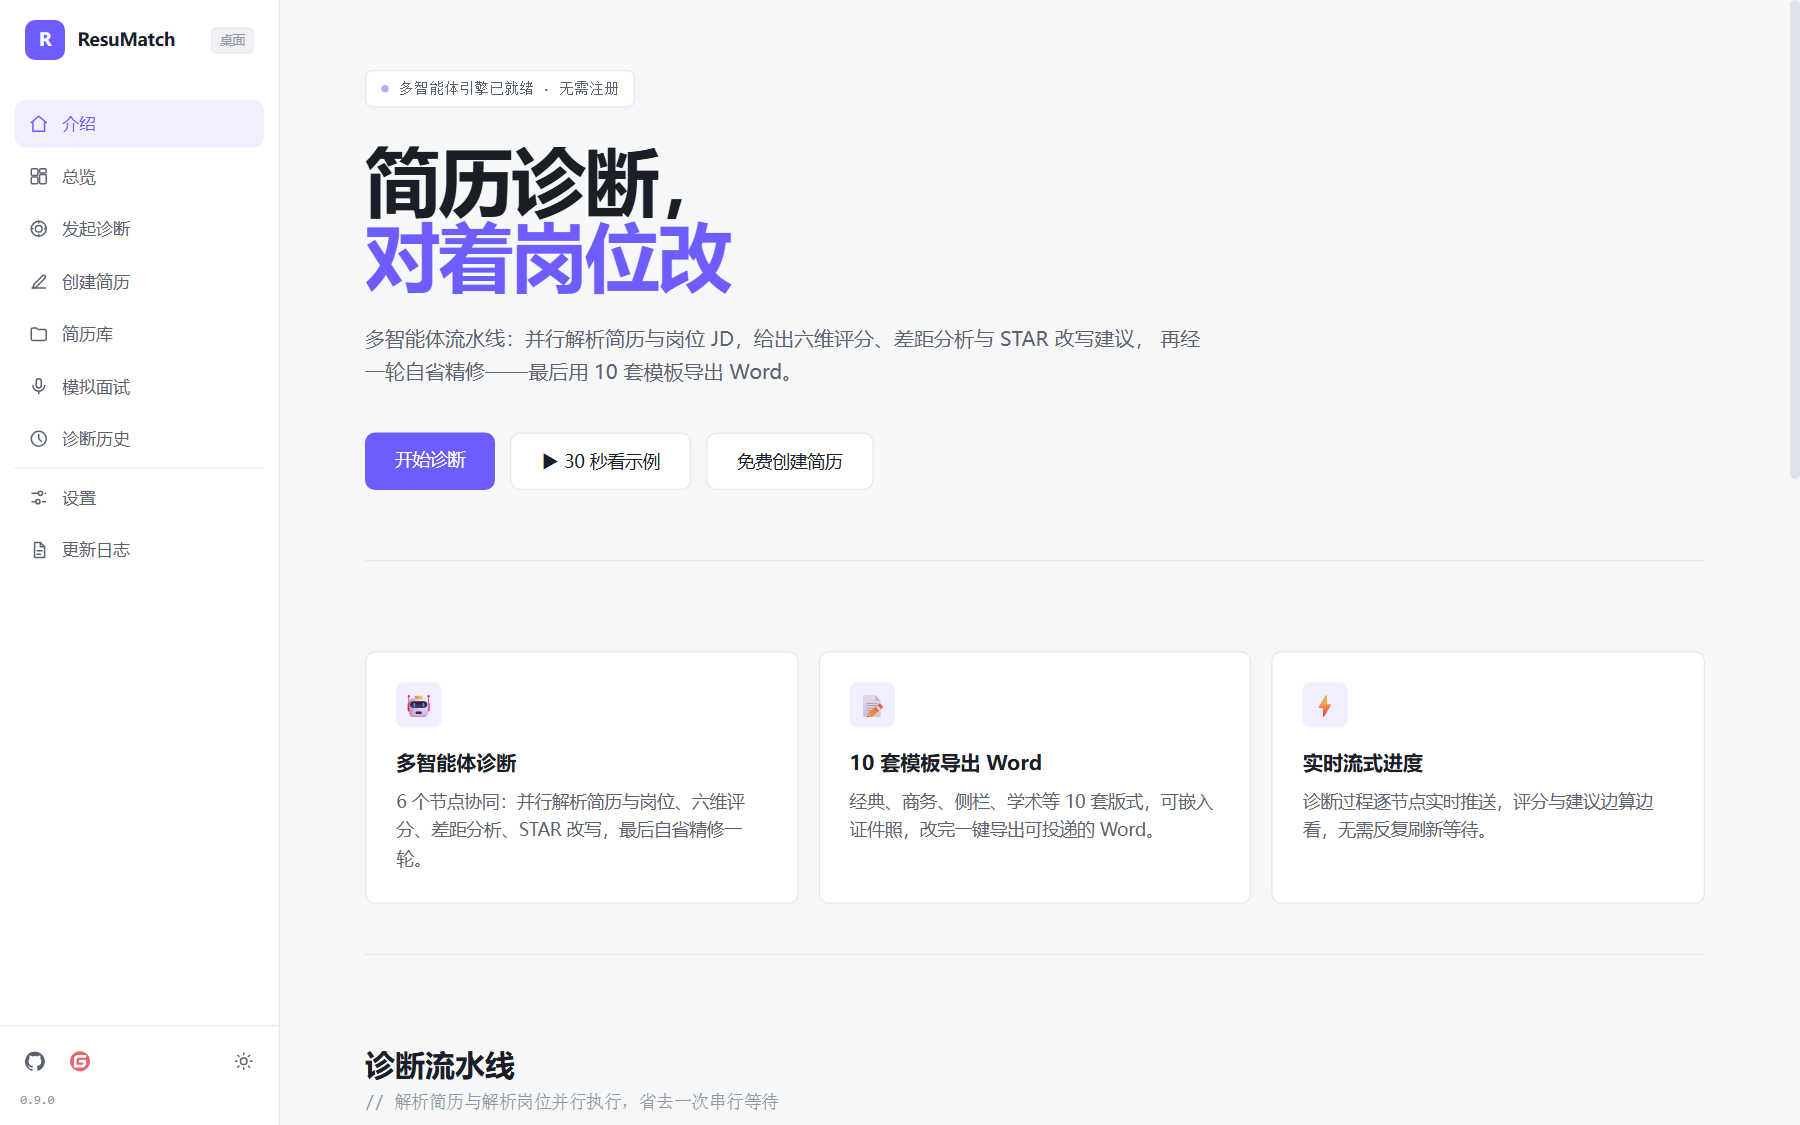
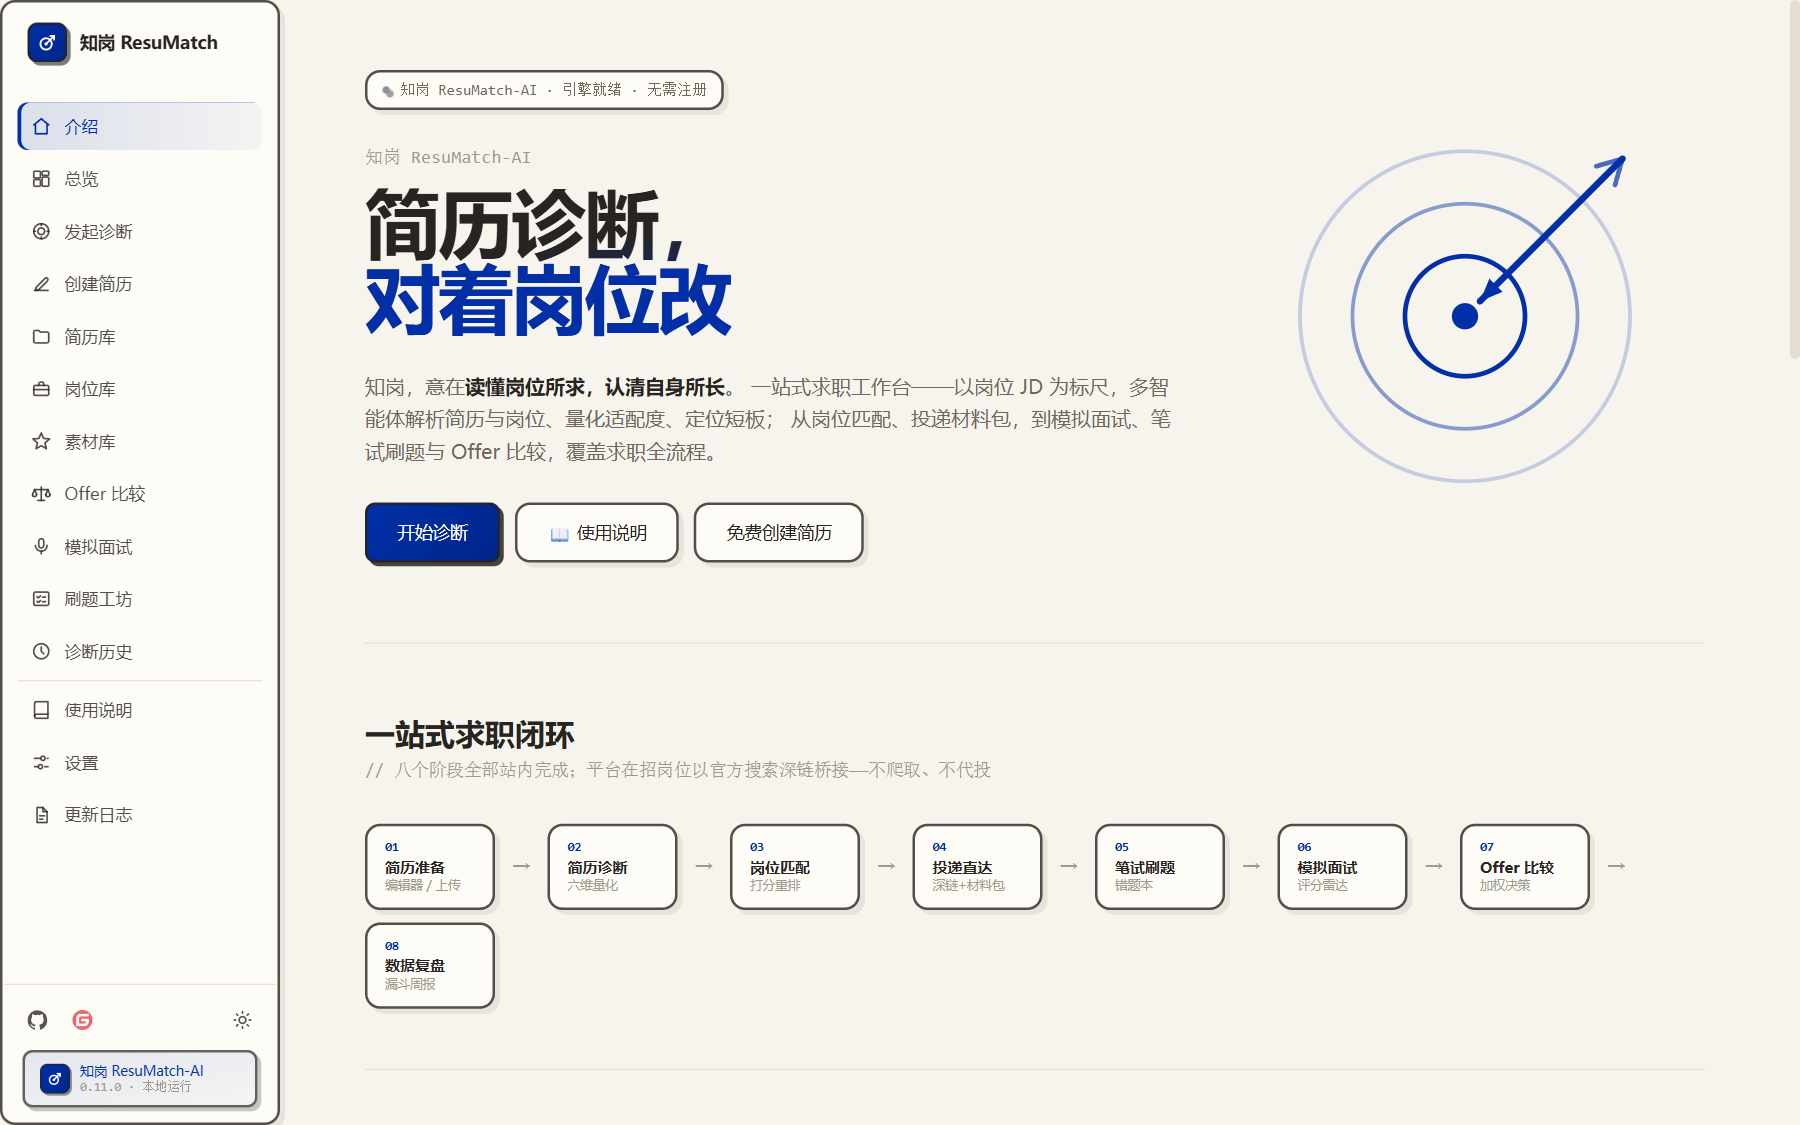
README 界面截图全面更新为 v0.11.x 现行 UI：补演示数据后重拍 9 页（dashboard 整页含漏斗/归因卡）；岗位库改用真实 jobs.png（原误用简历库截图），截图脚本修 Key 引导层判定时机+补 jobs 页+预置引导免疫

diff --git a/scripts/screenshot_readme.py b/scripts/screenshot_readme.py
@@ -13,8 +13,9 @@ import websocket
 PAGES = [
     ("dashboard", "http://localhost:5173/#/app/dashboard"),
     ("analyze", "http://localhost:5173/#/app/analyze"),
-    ("result", "http://localhost:5173/#/app/result/cc6b10be3932"),
+    ("result", "http://localhost:5173/#/app/result/demo3f9c2a7e8b1d"),
     ("history", "http://localhost:5173/#/app/history"),
+    ("jobs", "http://localhost:5173/#/app/jobs"),
     ("resumes", "http://localhost:5173/#/app/resumes"),
     ("interview", "http://localhost:5173/#/app/interview"),
     ("settings", "http://localhost:5173/#/settings"),
@@ -44,10 +45,23 @@ def shot(name, url):
         deviceScaleFactor=1.25, mobile=False)
     cdp(ws, "Page.navigate", url="http://localhost:5173/")
     time.sleep(3)  # 等待 SPA 首屏
+    # 首启引导弹层会盖住 Dashboard，截图前先落跳过标记（同源 localStorage）；
+    # llm_config 预置合法键值，抹掉「配置 AI 服务」Key 引导层（同 E2E 预置逻辑）
+    cdp(ws, "Runtime.evaluate", expression=(
+        "localStorage.setItem('onboarding_done','1');"
+        "localStorage.setItem('llm_config', JSON.stringify({api_key:'sk-shot-mock'}))"
+    ))
+    # Key 引导层判定在 App 首挂载时已锁定（needGuide 不会因 setItem 重算），
+    # reload 一次让 bootCheck 带着预置 Key 重跑
+    cdp(ws, "Page.reload")
+    time.sleep(2)
     cdp(ws, "Runtime.evaluate",
         expression=f"location.hash = '{url.split('#')[1]}'")
     time.sleep(3)  # 等待路由切换 + 数据请求
-    r = cdp(ws, "Page.captureScreenshot", format="png")
+    # Dashboard 内容超视口（漏斗/归因/热力图在下方），整页截取
+    full = name == "dashboard"
+    r = cdp(ws, "Page.captureScreenshot", format="png",
+            captureBeyondViewport=full)
     with open(rf"{OUT}\{name}.png", "wb") as f:
         f.write(base64.b64decode(r["result"]["data"]))
     ws.close()

diff --git a/README.md b/README.md
@@ -99,11 +99,11 @@
 |---|---|
 | ![发起诊断](docs/images/analyze.png) | ![诊断报告](docs/images/result.png) |
 
-| 模拟面试（多轮对话 + 评分雷达） | 岗位库（匹配排序 + 投递直达） |
+| 模拟面试（多轮对话 + 评分雷达） | 岗位库（批量匹配 + 匹配分解 + 投递直达） |
 |---|---|
-| ![模拟面试](docs/images/interview.png) | ![岗位库](docs/images/resumes.png) |
+| ![模拟面试](docs/images/interview.png) | ![岗位库](docs/images/jobs.png) |
 
-| 诊断历史（重诊对比） | 设置（自带 API Key） |
+| 诊断历史（重诊对比） | 设置（模型服务 · 数据源 · 使用偏好） |
 |---|---|
 | ![诊断历史](docs/images/history.png) | ![设置](docs/images/settings.png) |
 
